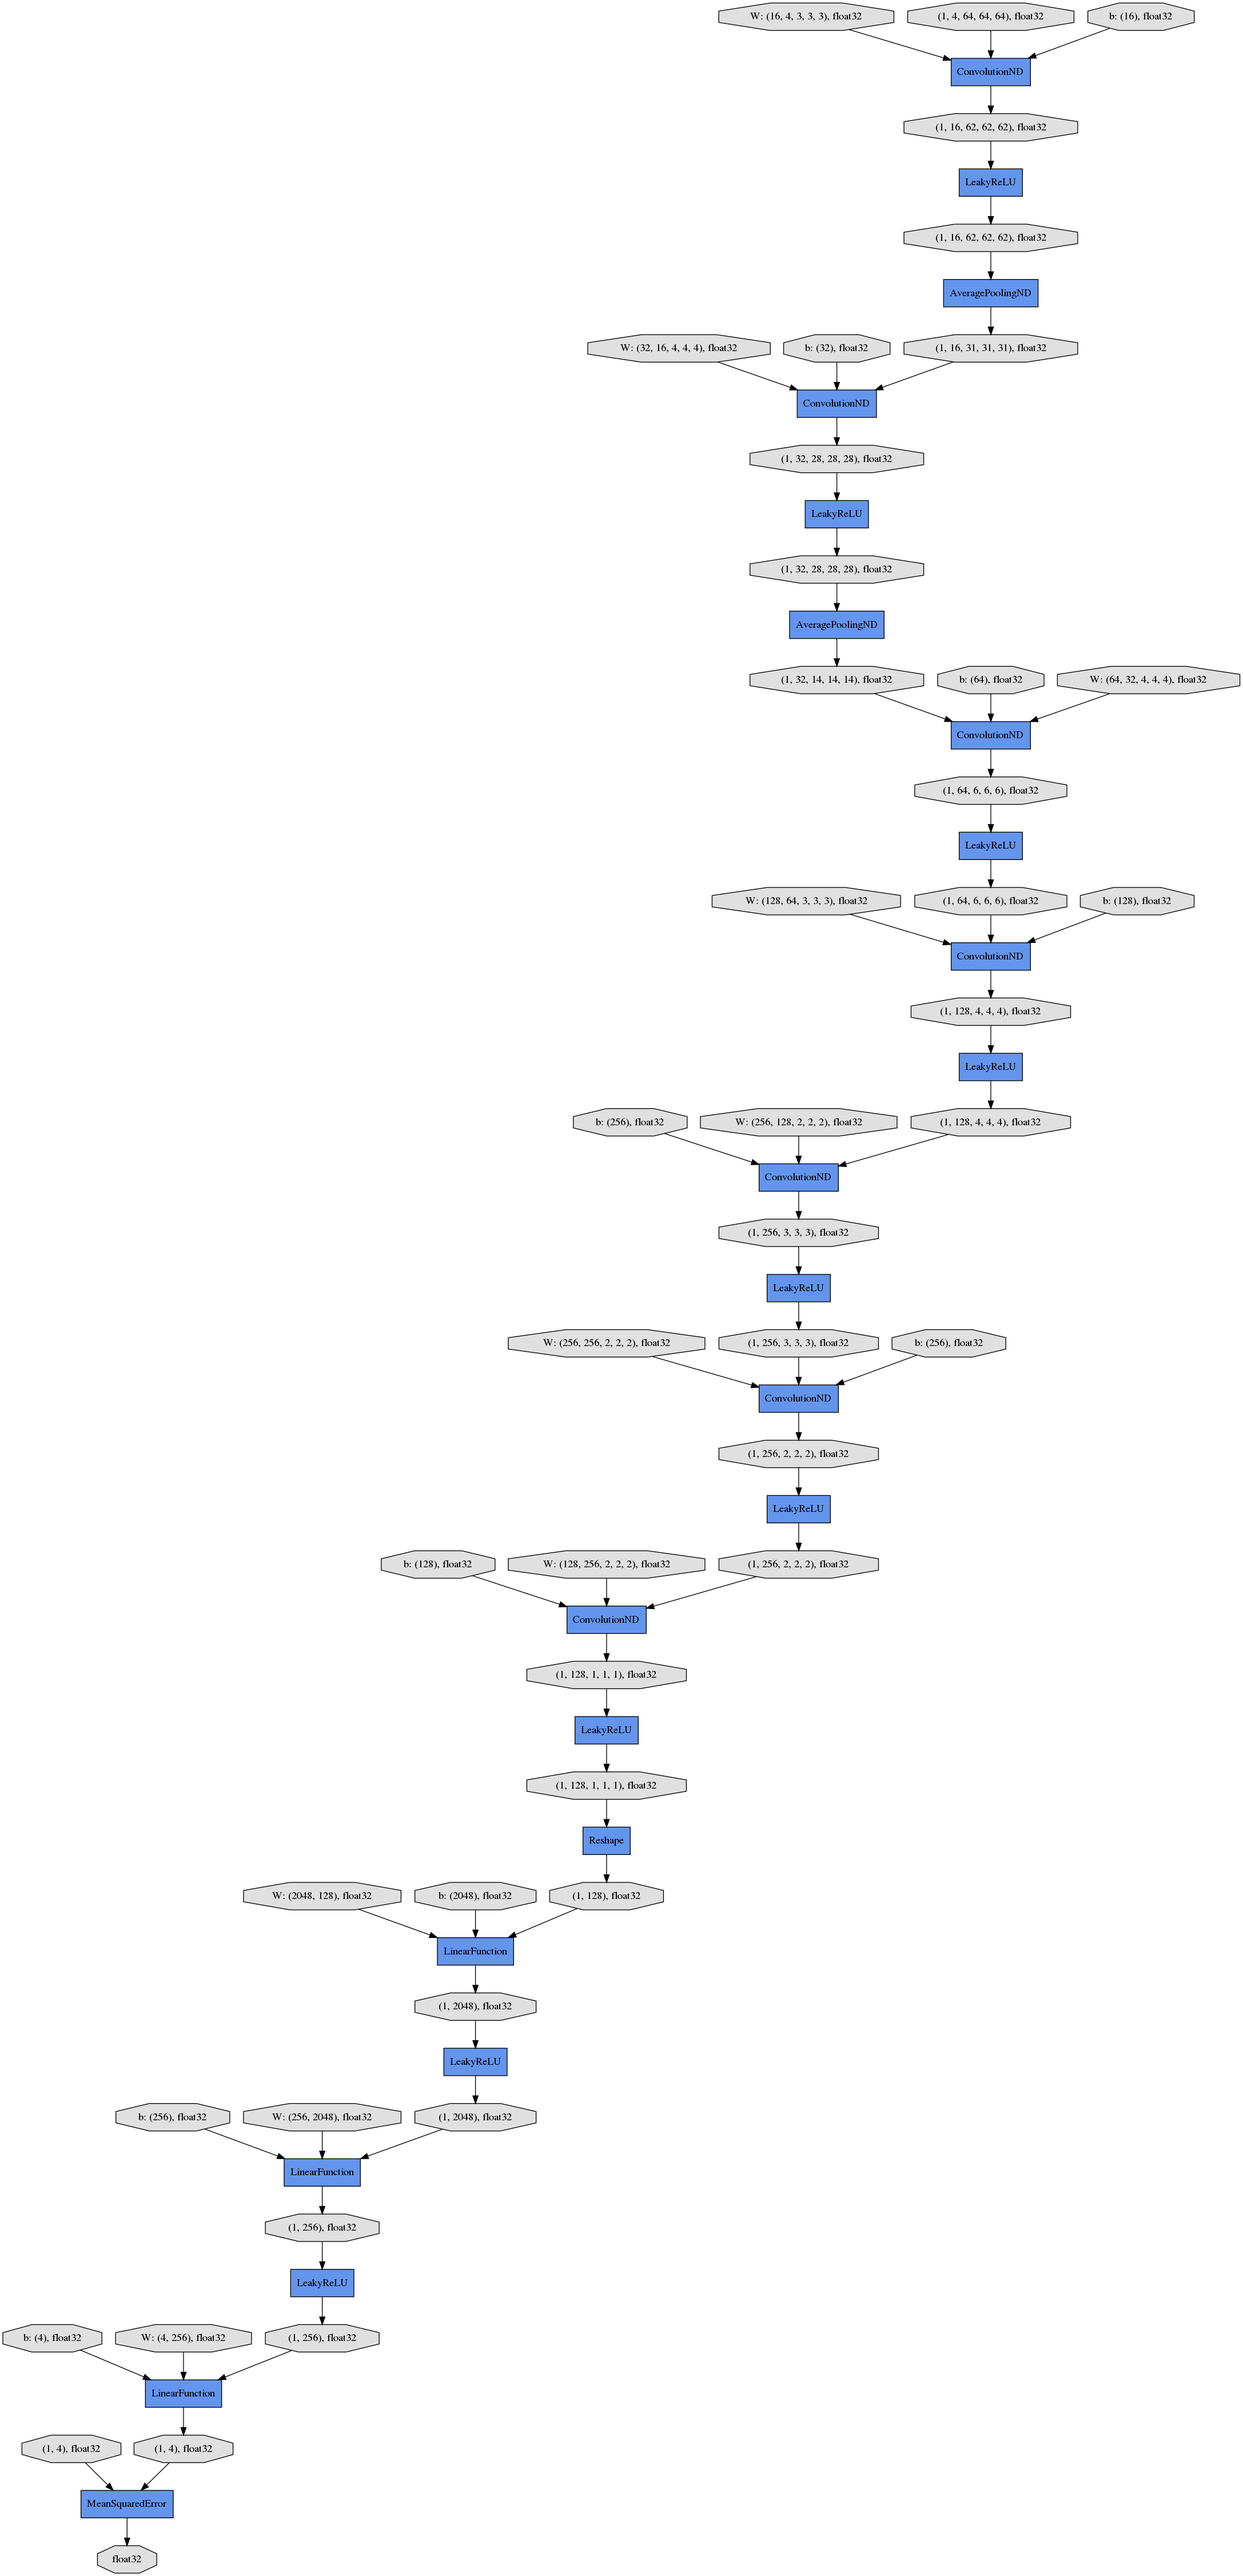
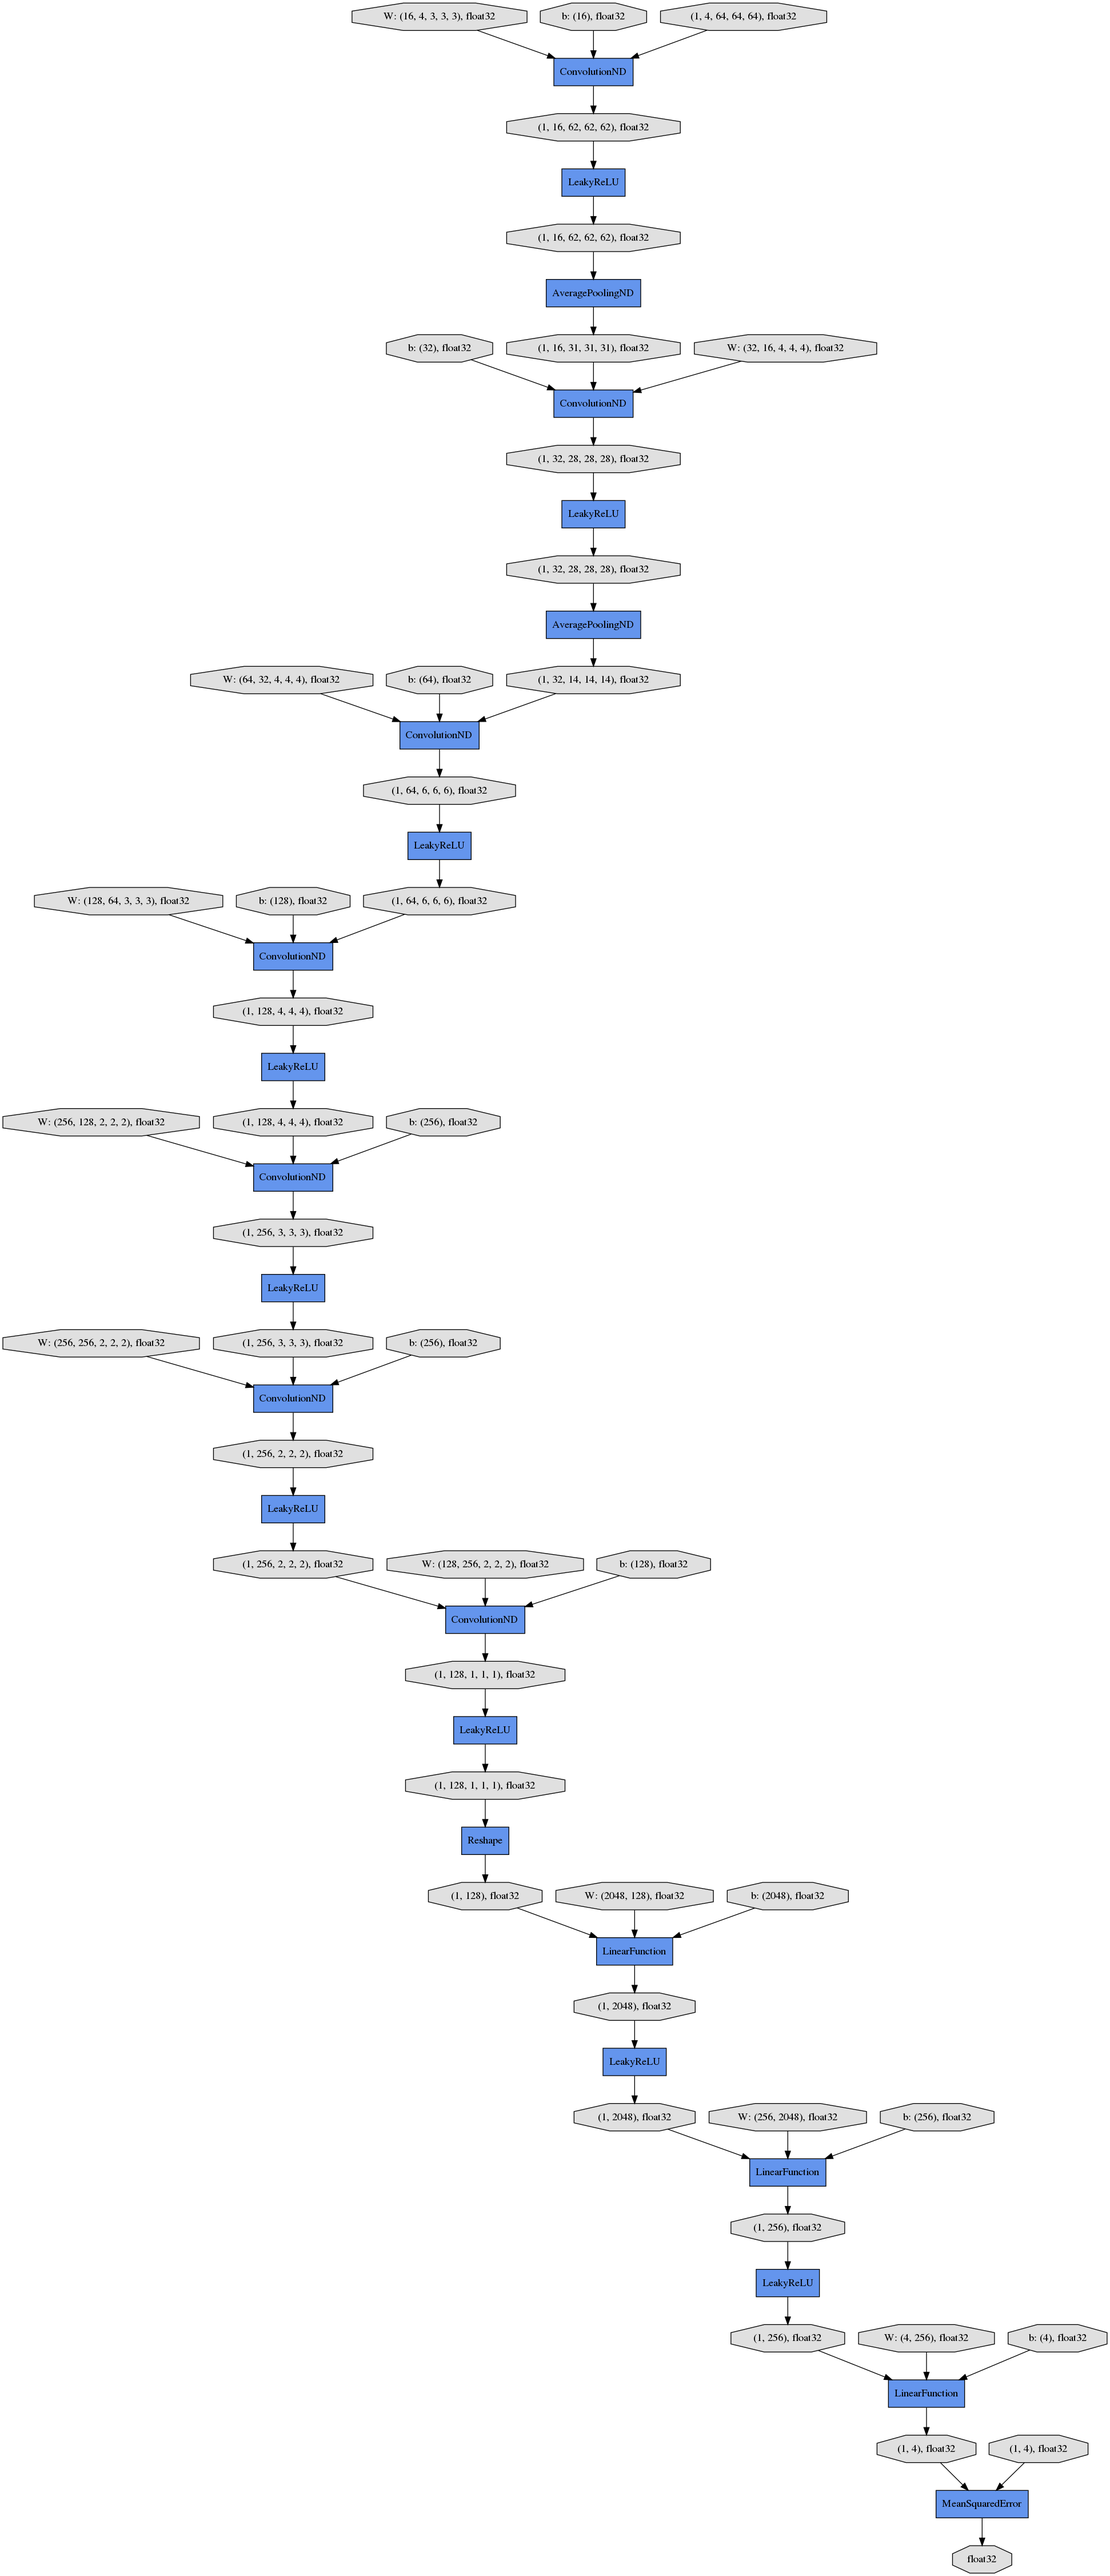
multi-gpu single node implementation

Changed region(s): [[0.0, 0.0, 1.0, 1.0]]

diff --git a/models/CosmoFlow.py b/models/CosmoFlow.py
@@ -37,4 +37,56 @@ class CosmoFlow(Chain):
         return loss
 
 
+class ParallelCosmoFlowSN(Chain):
+    def __init__(self):
+        super().__init__()
+        with self.init_scope():
+            self.Conv1 = L.Convolution3D(in_channels=4, out_channels=6, ksize=3, stride=1).to_gpu(0)
+
+            self.Conv2 = L.Convolution3D(in_channels=6, out_channels=32, ksize=4, stride=1).to_gpu(1)
+            self.Conv3 = L.Convolution3D(in_channels=32, out_channels=64, ksize=4, stride=2).to_gpu(1)
+            self.Conv4 = L.Convolution3D(in_channels=64, out_channels=128, ksize=3, stride=1).to_gpu(1)
+
+            self.Conv5 = L.Convolution3D(in_channels=128, out_channels=256, ksize=2, stride=1).to_gpu(2)
+            self.Conv6 = L.Convolution3D(in_channels=256, out_channels=256, ksize=2, stride=1).to_gpu(2)
+            self.Conv7 = L.Convolution3D(in_channels=256, out_channels=128, ksize=2, stride=1).to_gpu(2)
+
+            self.FC1 = L.Linear(None, 2048).to_gpu(3)
+            self.FC2 = L.Linear(None, 256).to_gpu(3)
+            self.Output = L.Linear(None, 4).to_gpu(3)
+
+    def forward(self, x, y):
+        h = F.leaky_relu(self.Conv1(x))
+
+        h = F.copy(h, 1)
+
+        h = F.average_pooling_3d(h, ksize=2, stride=2)
+        h = F.leaky_relu(self.Conv2(h))
+        h = F.average_pooling_3d(h, ksize=2, stride=2)
+        h = F.leaky_relu(self.Conv3(h))
+        h = F.leaky_relu(self.Conv4(h))
+
+        h = F.copy(h, 2)
+
+        h = F.leaky_relu(self.Conv5(h))
+        h = F.leaky_relu(self.Conv6(h))
+        h = F.leaky_relu(self.Conv7(h))
+
+        h = F.copy(h, 3)
+
+        h = F.leaky_relu(self.FC1(h))
+        h = F.leaky_relu(self.FC2(h))
+        h = self.Output(h)
+
+        h = F.copy(h, 0)
+        loss = F.mean_squared_error(h, y)
+        chainer.report({'loss': loss}, self)
+        return loss
+
+
+class CosmoFlowMN(Chain):
+    def __init__(self):
+        super().__init__()
+        pass
+
 

diff --git a/train.py b/train.py
@@ -3,7 +3,7 @@ from chainer import datasets, training
 from chainer.training import extensions
 
 # Local imports
-from models.CosmoFlow import CosmoFlow
+from models.CosmoFlow import CosmoFlow, ParallelCosmoFlowSN
 from extras import temp_data_prep
 from data.data import CosmoDataset
 
@@ -15,9 +15,10 @@ matplotlib.use('Agg')
 def main():
     # Input data and label
 
-    # training_data = CosmoDataset("data/training") // actual data
+    # training_data = CosmoDataset("/home/albert/data/training")  ## actual data
     training_data = temp_data_prep() ## temp data
     print("Fetching data successful")
+    print("Found %d training samples" % training_data.__len__())
     train, test = datasets.split_dataset_random(training_data, first_size=(int(training_data.__len__() * 0.80)))
 
     # train_iterator = ch.iterators.SerialIterator(training_data, 1)
@@ -28,22 +29,22 @@ def main():
 
     print("Model Created successfully")
 
-    gpu_id = -1  # Set to -1 if you use CPU
-    if gpu_id >= 0:
-        model.to_gpu(gpu_id)
+    device_id = -1  # Set to -1 if you use CPU
+    if device_id >= 0:
+        model.to_gpu(device_id)
 
     optimizer = ch.optimizers.Adam()
 
     optimizer.setup(model)
     # Create the updater, using the optimizer
-    updater = training.StandardUpdater(train_iterator, optimizer, device=gpu_id)
+    updater = training.StandardUpdater(train_iterator, optimizer, device=device_id)
 
     # Set up a trainer
     trainer = training.Trainer(updater, (10, 'epoch'), out='result')
 
     log_interval = (1, 'epoch')
 
-    trainer.extend(extensions.Evaluator(vali_iterator, model, device=gpu_id))
+    trainer.extend(extensions.Evaluator(vali_iterator, model, device=device_id))
 
     trainer.extend(extensions.DumpGraph('main/loss'))
     # trainer.extend(extensions.snapshot())

diff --git a/extras.py b/extras.py
@@ -13,7 +13,7 @@ matplotlib.use('Agg')
 
 def temp_data_prep():
 
-    X = np.random.rand(40, 4, 128, 128, 128).astype(np.float32)
+    X = np.random.rand(40, 4, 64, 64, 64).astype(np.float32)
 
     Y = np.random.rand(40, 4).astype(np.float32)
 
